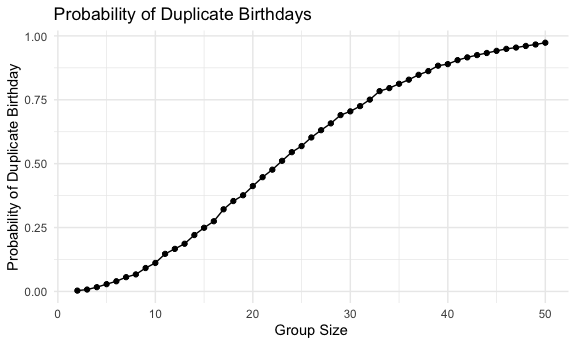
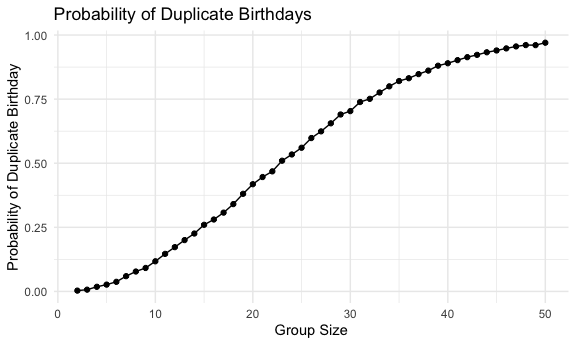
Minor changes and tidying the data frame for Problem 2

diff --git a/p8105_hw5_mts2203.md b/p8105_hw5_mts2203.md
@@ -48,16 +48,16 @@ birthday_probabilities_df =
     ## # A tibble: 49 × 2
     ##    number_of_people probability
     ##               <int>       <dbl>
-    ##  1                2      0.0032
-    ##  2                3      0.0074
-    ##  3                4      0.0167
-    ##  4                5      0.0285
-    ##  5                6      0.0398
-    ##  6                7      0.0559
-    ##  7                8      0.0667
-    ##  8                9      0.0916
-    ##  9               10      0.112 
-    ## 10               11      0.147 
+    ##  1                2      0.0031
+    ##  2                3      0.0068
+    ##  3                4      0.018 
+    ##  4                5      0.0265
+    ##  5                6      0.0374
+    ##  6                7      0.0595
+    ##  7                8      0.0776
+    ##  8                9      0.0915
+    ##  9               10      0.118 
+    ## 10               11      0.146 
     ## # ℹ 39 more rows
 
 ## Plotting Probabilities
@@ -130,11 +130,13 @@ participants_df =
 
 ``` r
 # iterating over file names and read in data for each subject 
-participants_df |>   
+participants_df = 
+  participants_df |>   
   mutate(
-    data = map(path,read_csv)
+     data = map(path,read_csv)
   ) |>
-  unnest(data)
+  unnest(data) |>
+  print()
 ```
 
     ## # A tibble: 20 × 10
@@ -160,3 +162,44 @@ participants_df |>
     ## 18 exp_08.csv data/exp_…   1.37   1.43   1.84   3.6    3.8    4.72   4.68   5.7 
     ## 19 exp_09.csv data/exp_…  -0.4    1.08   2.66   2.7    2.8    2.64   3.51   3.27
     ## 20 exp_10.csv data/exp_…   1.09   2.8    2.8    4.3    2.25   6.57   6.09   4.64
+
+## Tidying the result
+
+``` r
+# manipulating file names to include control arm and subject ID; general tidying
+participants_df =
+  participants_df |>
+  mutate(
+    subject_id = str_replace(files, "\\.csv$", ""),
+    arm = case_when(
+      str_starts(subject_id, "con") ~ "Control",
+      str_starts(subject_id, "cov") ~ "Control",
+      str_starts(subject_id, "exp") ~ "Experimental"
+    )
+  ) |>
+  pivot_longer(
+    cols = starts_with("week_"),
+    names_to = "week",
+    values_to = "observation"
+  ) |>
+  mutate(
+    week = as.numeric(str_remove(week, "week_"))
+  ) |>
+  select(subject_id, arm, week, observation) |>
+  print()
+```
+
+    ## # A tibble: 160 × 4
+    ##    subject_id arm      week observation
+    ##    <chr>      <chr>   <dbl>       <dbl>
+    ##  1 con_01     Control     1        0.2 
+    ##  2 con_01     Control     2       -1.31
+    ##  3 con_01     Control     3        0.66
+    ##  4 con_01     Control     4        1.96
+    ##  5 con_01     Control     5        0.23
+    ##  6 con_01     Control     6        1.09
+    ##  7 con_01     Control     7        0.05
+    ##  8 con_01     Control     8        1.94
+    ##  9 con_02     Control     1        1.13
+    ## 10 con_02     Control     2       -0.88
+    ## # ℹ 150 more rows
